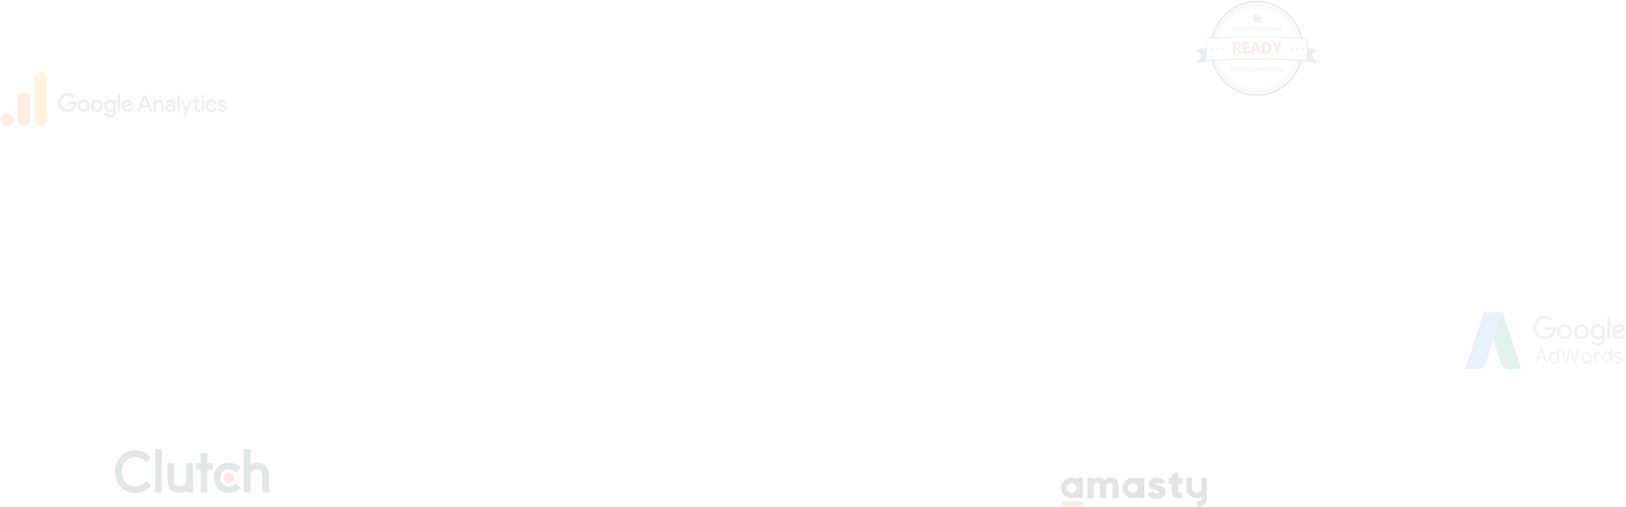
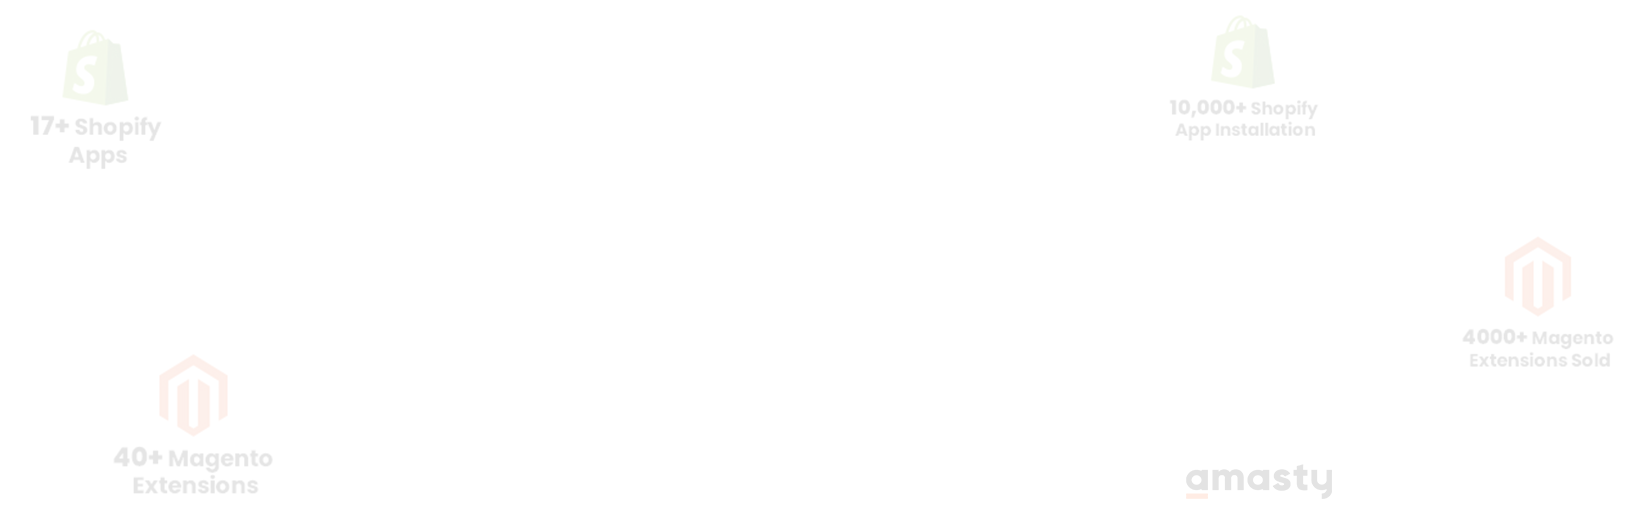
Update content

diff --git a/src/pages/services/make.js b/src/pages/services/make.js
@@ -65,6 +65,7 @@ class Make extends Component {
 								<div className="row">
 									{acfgen[1].cs_cards_details.map((node,index) => (
 										<div className="col-lg-3 col-md-6" key={index}>
+											<Link to={`/${removePre(node.cs_learn_more_link)}`}>
 											<div className="card service-wrap">
 												<div className="service-icon">
 													{node.cs_icon !== null &&
@@ -79,10 +80,11 @@ class Make extends Component {
 													{node.cs_content !== null &&
 														<div className="text" dangerouslySetInnerHTML={{__html:node.cs_content}} />
 													}
-													<Link to={`/${removePre(node.cs_learn_more_link)}`}>Learn More</Link>													
+													Learn More													
 													{/* <a href="#" className="s-link">Learn More</a> */}
 												</div>
 											</div>
+											</Link>
 										</div>
 									))}
 								</div>

diff --git a/src/pages/services/maintain.js b/src/pages/services/maintain.js
@@ -105,7 +105,7 @@ class Maintain extends Component {
 						</div>
 					</div>
 				</section>
-				
+
 				<section>
 					<div className="hire-developers-section">
 						<div className="container">
@@ -149,7 +149,7 @@ class Maintain extends Component {
 					<div className="our-credientials">
 						<div className="container">
 							<div className="title text-center">
-								<h2>Our Credentials</h2>
+								<h2>Our Certifications</h2>
 							</div>
 							<div className="credientials-wrap text-center">
 								<div className="c-main">

diff --git a/src/pages/services/market.js b/src/pages/services/market.js
@@ -105,7 +105,7 @@ class Market extends Component {
 				<div className="our-credientials">
 					<div className="container">
 					<div className="title text-center">
-						<h2>Our Credentials</h2>
+						<h2>Our Certifications</h2>
 					</div>
 					<div className="credientials-wrap text-center">
 						<div className="c-main">

diff --git a/src/assets/scss/market.scss b/src/assets/scss/market.scss
@@ -115,6 +115,7 @@
         }
     }
 }
+
 .links-earned{
     padding: 85px 0;
     background: -webkit-linear-gradient( -47deg, rgb(55,213,214) 0%, rgb(0,39,87) 100%);
@@ -165,4 +166,7 @@
             }
         }
     }
+}
+.our-credientials{
+    background-image: url('../images/credientials-background-market.png');
 }
